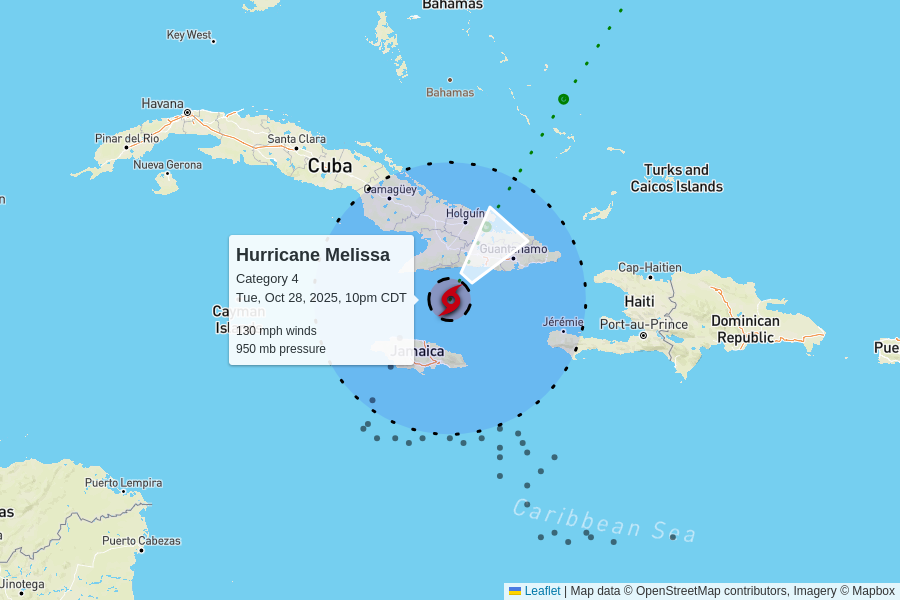
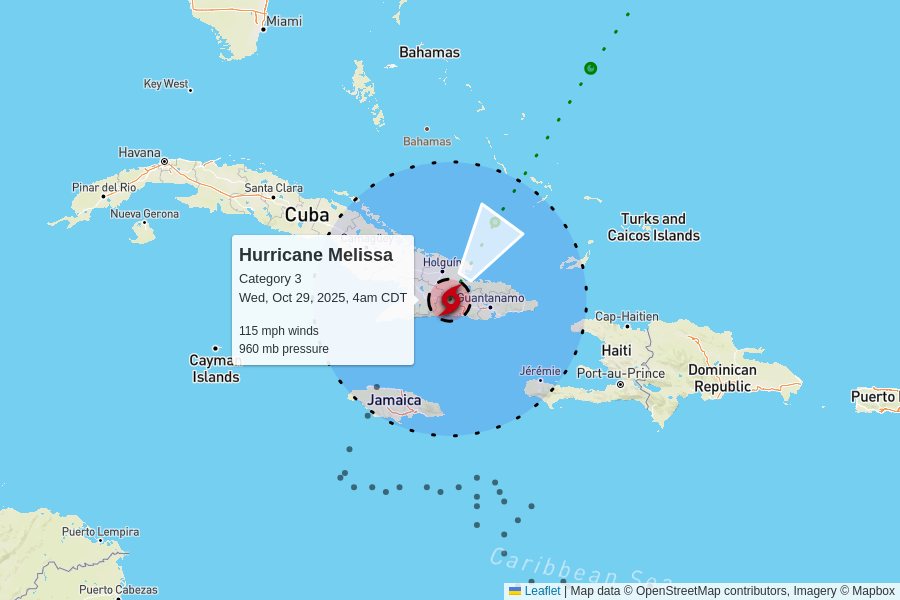
automatic update

diff --git a/docs/index.html b/docs/index.html
@@ -99,10 +99,10 @@
 
     <table>
       <tr>
-        <td colspan="6" class="storm category-4" >
+        <td colspan="6" class="storm category-3" >
           <h2>
-            Hurricane Melissa - Category 4
-            <p class="updated">last updated <span data-time>2025-10-29T03:00:00.000Z</span></p>
+            Hurricane Melissa - Category 3
+            <p class="updated">last updated <span data-time>2025-10-29T09:00:00.000Z</span></p>
           </h2>
         </td>
       </tr>
@@ -117,12 +117,12 @@
       </tr>
       <tr>
         <td class="spacer"></td>
-        <td>130 mph<br>-15 mph since last update</td>
-        <td>950 mb<br>+29 mb since last update</td>
+        <td>115 mph<br>-15 mph since last update</td>
+        <td>960 mb<br>+10 mb since last update</td>
         <td>
-          9 mph to the northeast
+          12 mph to the northeast
           <br/>
-          <span style="display: inline-block; font-size: 1.5em; transform: rotate(40deg);">↑</span>
+          <span style="display: inline-block; font-size: 1.5em; transform: rotate(35deg);">↑</span>
         </td>
         <td><a href="https://raw.githubusercontent.com/mgwalker/atlantic-hurricanes/main/data/csv/AL132025.csv">AL132025.csv</a></td>
         <td><a href="https://www.nhc.noaa.gov/archive/2025/MELISSA.shtml?">NHC advisories</a></td>
